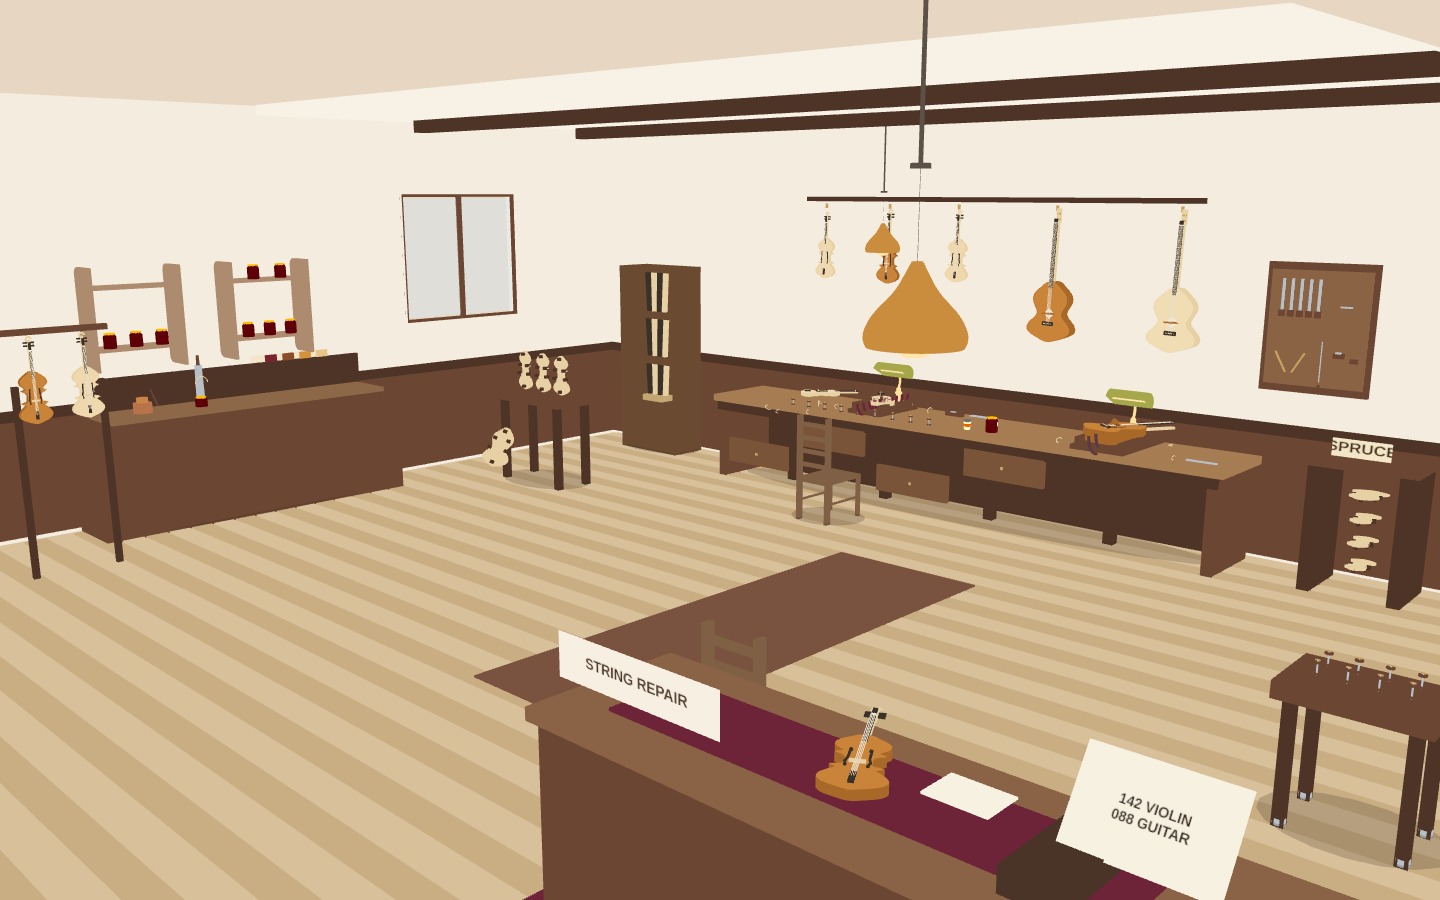
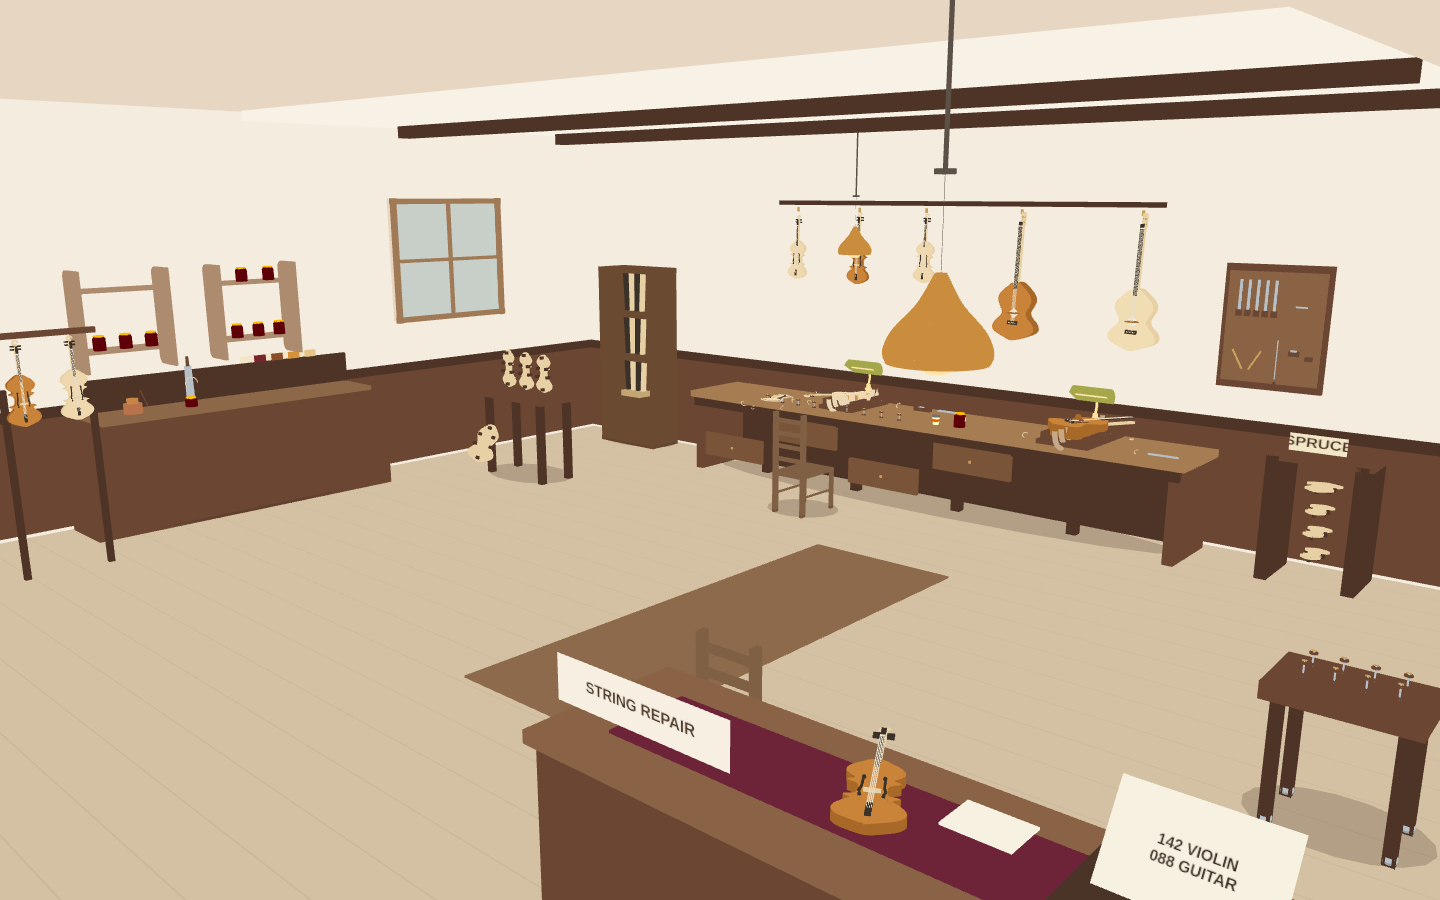
Quiet the luthier floor and make the open violin read.
One-tone floorboards replace the unlit zebra. The window gets a room-side oak frame. The cradle violin has thicker ribs, blocks, a scroll, and a loose top with f-holes.

diff --git a/experiments/indoor30-20261113/luthier-workshop/luthier.js b/experiments/indoor30-20261113/luthier-workshop/luthier.js
@@ -98,6 +98,12 @@ function addMesh(g, geo, mat, x, y, z) {
   return m;
 }
 
+function offsetHole(shape, ox, oy, sx, sy) {
+  const pts = shape.getPoints(16).map((p) => new THREE.Vector2(ox + p.x * sx, oy + p.y * sy));
+  pts.reverse();
+  return new THREE.Path(pts);
+}
+
 function fHoleShape() {
   const s = new THREE.Shape();
   s.moveTo(0, -0.05);
@@ -119,17 +125,50 @@ function buildInstrument(kind, opts = {}) {
   const edgeMat = opts.varnished ? varnishDeep() : maple();
   const open = !!opts.open;
 
-  if (open) {
-    const outer = plateShape(samples, 0);
-    outer.holes.push(new THREE.Path(smoothClosed(samples, kind === 'guitar' ? 0.016 : 0.011).reverse()));
-    const ribs = addMesh(g, extrude(`${kind}-ribs`, outer, depth), edgeMat, 0, 0, -depth / 2);
-    ribs.castShadow = true;
-    for (const [x, y] of [[0, -0.15], [0, 0.15], [-0.07, -0.03], [0.07, -0.03], [-0.06, 0.05], [0.06, 0.05]]) {
-      addBox(g, 0.028, 0.032, depth * 0.7, walnut(), x, y, 0);
+  if (opts.plate && kind === 'violin') {
+    const top = plateShape(VIOLIN, 0);
+    for (const side of [-1, 1]) {
+      top.holes.push(offsetHole(fHoleShape(), side * 0.04, 0.006, side * 1.7, 1.45));
     }
-    const tag = addMesh(g, new THREE.PlaneGeometry(0.07, 0.04), labelMat('REPAIR', '#f4e7c8', '#4a3018', 256, 128), 0, -0.02, 0.002);
-    tag.castShadow = false;
-    tag.userData.noShadow = true;
+    addMesh(g, extrude('violin-loose-top', top, 0.008), spruce(), 0, 0, 0);
+    const purf = plateShape(VIOLIN, 0.008);
+    purf.holes.push(new THREE.Path(smoothClosed(VIOLIN, 0.014).reverse()));
+    const purfle = addMesh(g, extrude('violin-purfle', purf, 0.003), toon('#9a704c'), 0, 0, 0.008);
+    purfle.castShadow = false;
+    purfle.userData.noShadow = true;
+    const fMat = toon('#2f241c', { side: THREE.DoubleSide });
+    for (const side of [-1, 1]) {
+      const hole = addMesh(g, extrude(`fhole-loose-${side}`, fHoleShape(), 0.012), fMat, side * 0.04, 0.006, 0.004);
+      hole.scale.set(side * 1.7, 1.45, 1);
+      addCyl(g, 0.011, 0.011, 0.01, fMat, side * 0.038, 0.078, 0.012, 8);
+      addCyl(g, 0.01, 0.01, 0.01, fMat, side * 0.046, -0.055, 0.012, 8);
+    }
+    addBox(g, 0.016, 0.16, 0.014, toon('#e7c48a'), -0.02, 0.01, 0.016);
+    return g;
+  }
+
+  if (open) {
+    const ribDepth = kind === 'guitar' ? depth : 0.052;
+    const outer = plateShape(samples, 0);
+    outer.holes.push(new THREE.Path(smoothClosed(samples, kind === 'guitar' ? 0.018 : 0.016).reverse()));
+    const ribs = addMesh(g, extrude(`${kind}-ribs-b`, outer, ribDepth), toon('#f2d7ae'), 0, 0, -ribDepth / 2);
+    ribs.castShadow = true;
+    const back = plateShape(samples, kind === 'guitar' ? 0.014 : 0.012);
+    addMesh(g, extrude(`${kind}-back-b`, back, 0.007), spruce(), 0, 0, -ribDepth / 2 + 0.001);
+    const lining = plateShape(samples, kind === 'guitar' ? 0.012 : 0.01);
+    lining.holes.push(new THREE.Path(smoothClosed(samples, kind === 'guitar' ? 0.022 : 0.02).reverse()));
+    const lip = addMesh(g, extrude(`${kind}-lining-b`, lining, 0.006), toon('#f7e6c4'), 0, 0, ribDepth / 2 - 0.005);
+    lip.castShadow = false;
+    lip.userData.noShadow = true;
+    const blocks = kind === 'guitar'
+      ? [[0, -0.2, 0.05, 0.04], [0, 0.18, 0.046, 0.036]]
+      : [[0, -0.152, 0.042, 0.032], [0, 0.148, 0.038, 0.03], [-0.078, -0.032, 0.03, 0.026], [0.078, -0.032, 0.03, 0.026], [-0.06, 0.05, 0.028, 0.024], [0.06, 0.05, 0.028, 0.024]];
+    for (const [bx, by, bw, bh] of blocks) {
+      addBox(g, bw, bh, ribDepth * 0.72, toon('#c49255'), bx, by, -0.002);
+    }
+    if (kind === 'violin') {
+      addCyl(g, 0.006, 0.006, ribDepth * 0.7, toon('#e8d2a4'), 0.02, -0.01, -0.004, 6);
+    }
   } else {
     const topShape = plateShape(samples, 0.001);
     if (kind === 'guitar') {
@@ -165,10 +204,21 @@ function buildInstrument(kind, opts = {}) {
   const neckLen = kind === 'guitar' ? 0.46 : 0.145;
   const neckY = (kind === 'guitar' ? 0.228 : 0.176) + neckLen / 2;
   const neckW = kind === 'guitar' ? 0.028 : 0.016;
-  addBox(g, neckW, neckLen, kind === 'guitar' ? 0.02 : 0.014, maple(), 0, neckY, depth * 0.15);
+  const zNeck = (open && kind === 'violin') ? 0.014 : depth * 0.15;
+  const zFace = (open && kind === 'violin') ? 0.032 : depth / 2;
+  addBox(g, neckW, neckLen, kind === 'guitar' ? 0.02 : 0.014, maple(), 0, neckY, zNeck);
   const boardLen = neckLen + (kind === 'guitar' ? 0.08 : 0.1);
   const boardY = (kind === 'guitar' ? 0.2 : 0.15) + boardLen / 2 - 0.02;
-  addBox(g, kind === 'guitar' ? 0.03 : 0.016, boardLen, 0.006, ebony(), 0, boardY, depth / 2 + 0.004);
+  addBox(
+    g,
+    kind === 'guitar' ? 0.03 : (open ? 0.014 : 0.016),
+    open ? neckLen * 0.72 : boardLen,
+    open ? 0.005 : 0.006,
+    open ? toon('#5a4638') : ebony(),
+    0,
+    open ? (kind === 'guitar' ? 0.3 : 0.22) : boardY,
+    zFace + 0.006,
+  );
   if (kind === 'guitar') {
     for (let i = 0; i < 8; i++) {
       addBox(g, 0.028, 0.003, 0.003, brass(), 0, 0.26 + i * 0.045, depth / 2 + 0.008);
@@ -176,12 +226,13 @@ function buildInstrument(kind, opts = {}) {
   }
 
   const nutY = (kind === 'guitar' ? 0.228 : 0.176) + neckLen;
-  addBox(g, kind === 'guitar' ? 0.032 : 0.018, 0.008, 0.008, paper(), 0, nutY, depth / 2 + 0.006);
+  addBox(g, kind === 'guitar' ? 0.032 : 0.018, 0.008, 0.008, paper(), 0, nutY, zFace + 0.006);
   const headH = kind === 'guitar' ? 0.11 : 0.07;
-  addBox(g, kind === 'guitar' ? 0.04 : 0.02, headH, 0.012, maple(), 0, nutY + headH / 2, depth * 0.1);
+  addBox(g, kind === 'guitar' ? 0.04 : 0.02, headH, 0.012, maple(), 0, nutY + headH / 2, (open && kind === 'violin') ? 0.012 : depth * 0.1);
   if (kind === 'violin') {
-    const scroll = new THREE.Mesh(new THREE.TorusGeometry(0.016, 0.0065, 6, 16, Math.PI * 1.5), maple());
-    scroll.position.set(0.002, nutY + headH + 0.004, 0.004);
+    const scrollR = open ? 0.026 : 0.016;
+    const scroll = new THREE.Mesh(new THREE.TorusGeometry(scrollR, open ? 0.008 : 0.0065, 6, 16, Math.PI * 1.5), maple());
+    scroll.position.set(0.002, nutY + headH + (open ? 0.01 : 0.004), 0.004);
     scroll.castShadow = true;
     g.add(scroll);
     for (const side of [-1, 1]) {
@@ -245,7 +296,7 @@ function cradle(g, x, z, topY, length, width, matWood, matFelt) {
   const ribCount = 7;
   for (let i = 0; i < ribCount; i++) {
     const tz = -length / 2 + (length * i) / (ribCount - 1);
-    const arc = new THREE.Mesh(new THREE.TorusGeometry(width * 0.46, 0.011, 6, 16, Math.PI), matFelt);
+    const arc = new THREE.Mesh(new THREE.TorusGeometry(width * 0.46, 0.02, 6, 14, Math.PI), matFelt);
     arc.rotation.z = Math.PI;
     arc.rotation.y = Math.PI / 2;
     arc.position.set(0, width * 0.42, tz);
@@ -297,19 +348,30 @@ function makeShell(layout) {
   g.name = 'shell';
   const { width: W, depth: D, height: H } = layout.meta.room;
   const s = layout.shell;
-  const floorMat = toon(s.floorColor);
-  const alt = toon('#c9ae84');
+  const floorMat = toon('#d4c0a2');
+  const seamMat = toon('#cbb89a');
   const wallMat = toon(s.wallColor);
   const wood = toon(s.woodColor);
   const woodDeep = walnutDeep();
 
   const floor = addBox(g, W, 0.08, D, floorMat, 0, -0.04, 0);
   noCast(floor, true);
-  const plankN = Math.round((D - 0.2) / 0.18);
+  const plankStep = 0.32;
+  const plankN = Math.ceil((D - 0.08) / plankStep);
+  const plankGeo = new THREE.PlaneGeometry(W - 0.16, plankStep - 0.01);
+  const seamGeo = new THREE.PlaneGeometry(W - 0.16, 0.008);
   for (let i = 0; i < plankN; i++) {
-    const z = -D / 2 + 0.16 + i * 0.18;
-    const plank = addBox(g, W - 0.28, 0.01, 0.16, i % 2 ? alt : floorMat, 0, 0.006, z);
+    const z = -D / 2 + plankStep * 0.5 + i * plankStep;
+    const plank = new THREE.Mesh(plankGeo, floorMat);
+    plank.rotation.x = -Math.PI / 2;
+    plank.position.set(0, 0.006, z);
     noCast(plank, true);
+    g.add(plank);
+    const seam = new THREE.Mesh(seamGeo, seamMat);
+    seam.rotation.x = -Math.PI / 2;
+    seam.position.set(0, 0.007, z + plankStep / 2);
+    noCast(seam, true);
+    g.add(seam);
   }
 
   const back = addBox(g, W, H, 0.14, wallMat, 0, H / 2, -D / 2);
@@ -330,15 +392,22 @@ function makeShell(layout) {
   addBox(g, wallT, H - winY1, winZ1 - winZ0, wallMat, leftX, (H + winY1) / 2, (winZ0 + winZ1) / 2);
   g.children.slice(-4).forEach((mesh) => { mesh.castShadow = false; mesh.userData.noShadow = true; mesh.userData.receiveShadow = true; });
 
-  const glass = addBox(g, 0.02, winY1 - winY0 - 0.08, winZ1 - winZ0 - 0.08, toon('#d5e4ef', {
-    transparent: true, opacity: 0.28, emissive: '#d7e7f4', emissiveIntensity: 0.35, side: THREE.DoubleSide, depthWrite: false,
-  }), leftX + 0.02, (winY0 + winY1) / 2, (winZ0 + winZ1) / 2);
+  const winW = winZ1 - winZ0;
+  const winH = winY1 - winY0;
+  const winC = (winZ0 + winZ1) / 2;
+  const winMidY = (winY0 + winY1) / 2;
+  const frameX = -5.47;
+  const frame = toon('#a07a56');
+  const glass = addBox(g, 0.02, winH - 0.1, winW - 0.1, toon('#c5cfc8', {
+    transparent: true, opacity: 0.78, emissive: '#d5ddd8', emissiveIntensity: 0.06, side: THREE.DoubleSide, depthWrite: false,
+  }), frameX - 0.03, winMidY, winC);
   noCast(glass);
-  for (let i = 0; i < 3; i++) {
-    addBox(g, 0.04, winY1 - winY0, 0.04, wood, leftX + 0.04, (winY0 + winY1) / 2, winZ0 + ((winZ1 - winZ0) * i) / 2);
-  }
-  addBox(g, 0.04, 0.05, winZ1 - winZ0, wood, leftX + 0.04, winY0, (winZ0 + winZ1) / 2);
-  addBox(g, 0.04, 0.05, winZ1 - winZ0, wood, leftX + 0.04, winY1, (winZ0 + winZ1) / 2);
+  noCast(addBox(g, 0.04, winH, 0.05, frame, frameX, winMidY, winZ0 + 0.03));
+  noCast(addBox(g, 0.04, winH, 0.05, frame, frameX, winMidY, winZ1 - 0.03));
+  noCast(addBox(g, 0.04, 0.05, winW, frame, frameX, winY0 + 0.03, winC));
+  noCast(addBox(g, 0.04, 0.05, winW, frame, frameX, winY1 - 0.03, winC));
+  noCast(addBox(g, 0.028, winH - 0.1, 0.032, frame, frameX + 0.012, winMidY, winC));
+  noCast(addBox(g, 0.028, 0.032, winW - 0.1, frame, frameX + 0.012, winMidY, winC));
 
   const innerB = -D / 2 + 0.08;
   const innerLeft = -W / 2 + 0.08;
@@ -355,7 +424,7 @@ function makeShell(layout) {
     beam.userData.noShadow = true;
   }
 
-  const runner = addBox(g, 1.15, 0.012, 3.3, toon('#7a5340'), -0.15, 0.016, -0.55);
+  const runner = addBox(g, 1.15, 0.012, 3.3, toon('#8d6a4c'), -0.15, 0.016, -0.55);
   noCast(runner, true);
   const rug = addBox(g, 2.9, 0.014, 1.7, felt(), 2.7, 0.018, 2.35);
   noCast(rug, true);
@@ -492,23 +561,23 @@ function benchAssembly(g, a) {
     addBox(g, 0.08, h - 0.12, 0.08, walnutDeep(), x + dx, (h - 0.12) / 2, z);
   }
 
-  cradle(g, a.x - 0.7, a.z, h, 0.5, 0.26, walnut(), felt());
-  cradle(g, a.x + 1.47, a.z, h, 0.66, 0.34, walnut(), toon('#5c3a42'));
+  cradle(g, a.x - 0.7, a.z, h, 0.52, 0.28, walnut(), toon('#ead7b4'));
+  cradle(g, a.x + 1.47, a.z, h, 0.66, 0.34, walnut(), toon('#c4a888'));
 
   const openRig = new THREE.Group();
   const openViolin = buildInstrument('violin', { open: true, showStrings: false });
   openViolin.rotation.x = -Math.PI / 2;
   openRig.add(openViolin);
-  openRig.rotation.y = 0.65;
-  openRig.position.set(-1.55, h + 0.09, -3.8);
+  openRig.rotation.y = 2.35;
+  openRig.position.set(-1.55, h + 0.1, -3.78);
   g.add(openRig);
 
   const topRig = new THREE.Group();
-  const looseTop = buildInstrument('violin', { varnished: false, showStrings: false });
+  const looseTop = buildInstrument('violin', { plate: true, showStrings: false });
   looseTop.rotation.x = -Math.PI / 2;
   topRig.add(looseTop);
-  topRig.rotation.y = -0.8;
-  topRig.position.set(-2.35, h + 0.05, -3.95);
+  topRig.rotation.y = 0.2;
+  topRig.position.set(-2.12, h + 0.06, -3.42);
   g.add(topRig);
   addCyl(g, 0.004, 0.004, 0.055, spruce(), -2.05, h + 0.04, -3.55, 6);
 

diff --git a/experiments/indoor30-20261113/luthier-workshop/refs/GAP.md b/experiments/indoor30-20261113/luthier-workshop/refs/GAP.md
@@ -28,6 +28,8 @@ Candidate GLBs were measured in world space from the baked files. Official `cand
 
 - Violin and guitar outlines are splines, not scanned plates. Scrolls are torus arcs. F-holes are flat cutouts. They read at room scale and are deliberately larger in line weight than a real 1 mm purfling.
 - Spool clamps, cradles, inside molds, the bending iron, and shavings have no catalog mesh.
-- Contact discs stand in for AO. The toon ramp stays four hard steps. The shadow map is PCF soft so the window mullions do not stamp black bars, and the normal bias is raised to avoid acne.
+- Contact discs stand in for AO. The toon ramp stays four hard steps. The shadow map is PCF soft, and the window frame does not cast, so the mullions do not stamp black bars.
+- Floor boards are one spruce tone. Seams are hairlines, because unlit shows the albedo directly and a two-tone step was reading as a zebra field.
+- The open violin is still a spline rib, maple blocks, a back plate, a torus scroll, and a loose top with f-hole stand-ins. It is not a scanned body. The cradle lining is a row of cork-colored arcs.
 - Jar glass stays the baked garnet. Separate amber glass would need a new material on the shared file, which this folder does not edit.
 - The neck cabinet tint flattens every bookcase material to one walnut, because the bake shipped without materials.
